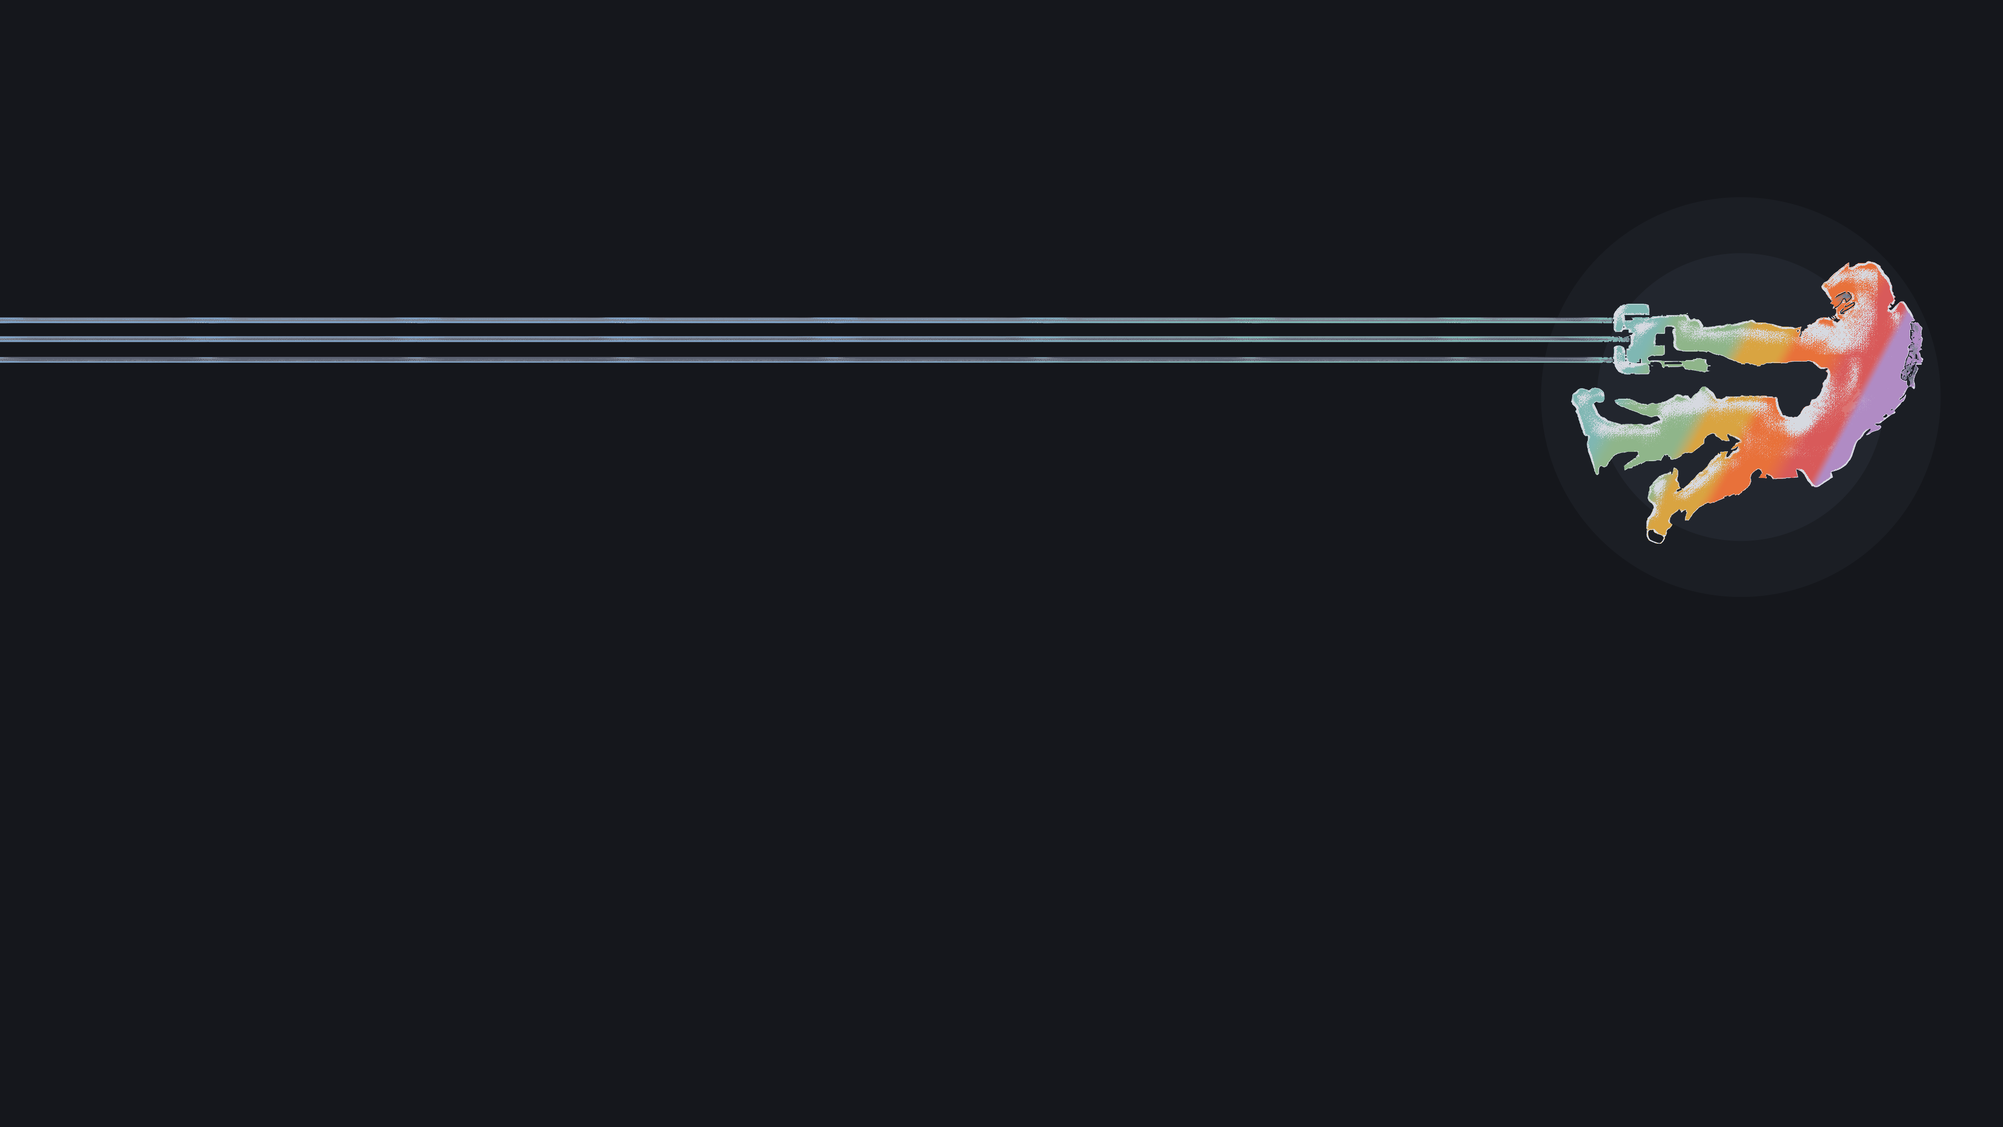
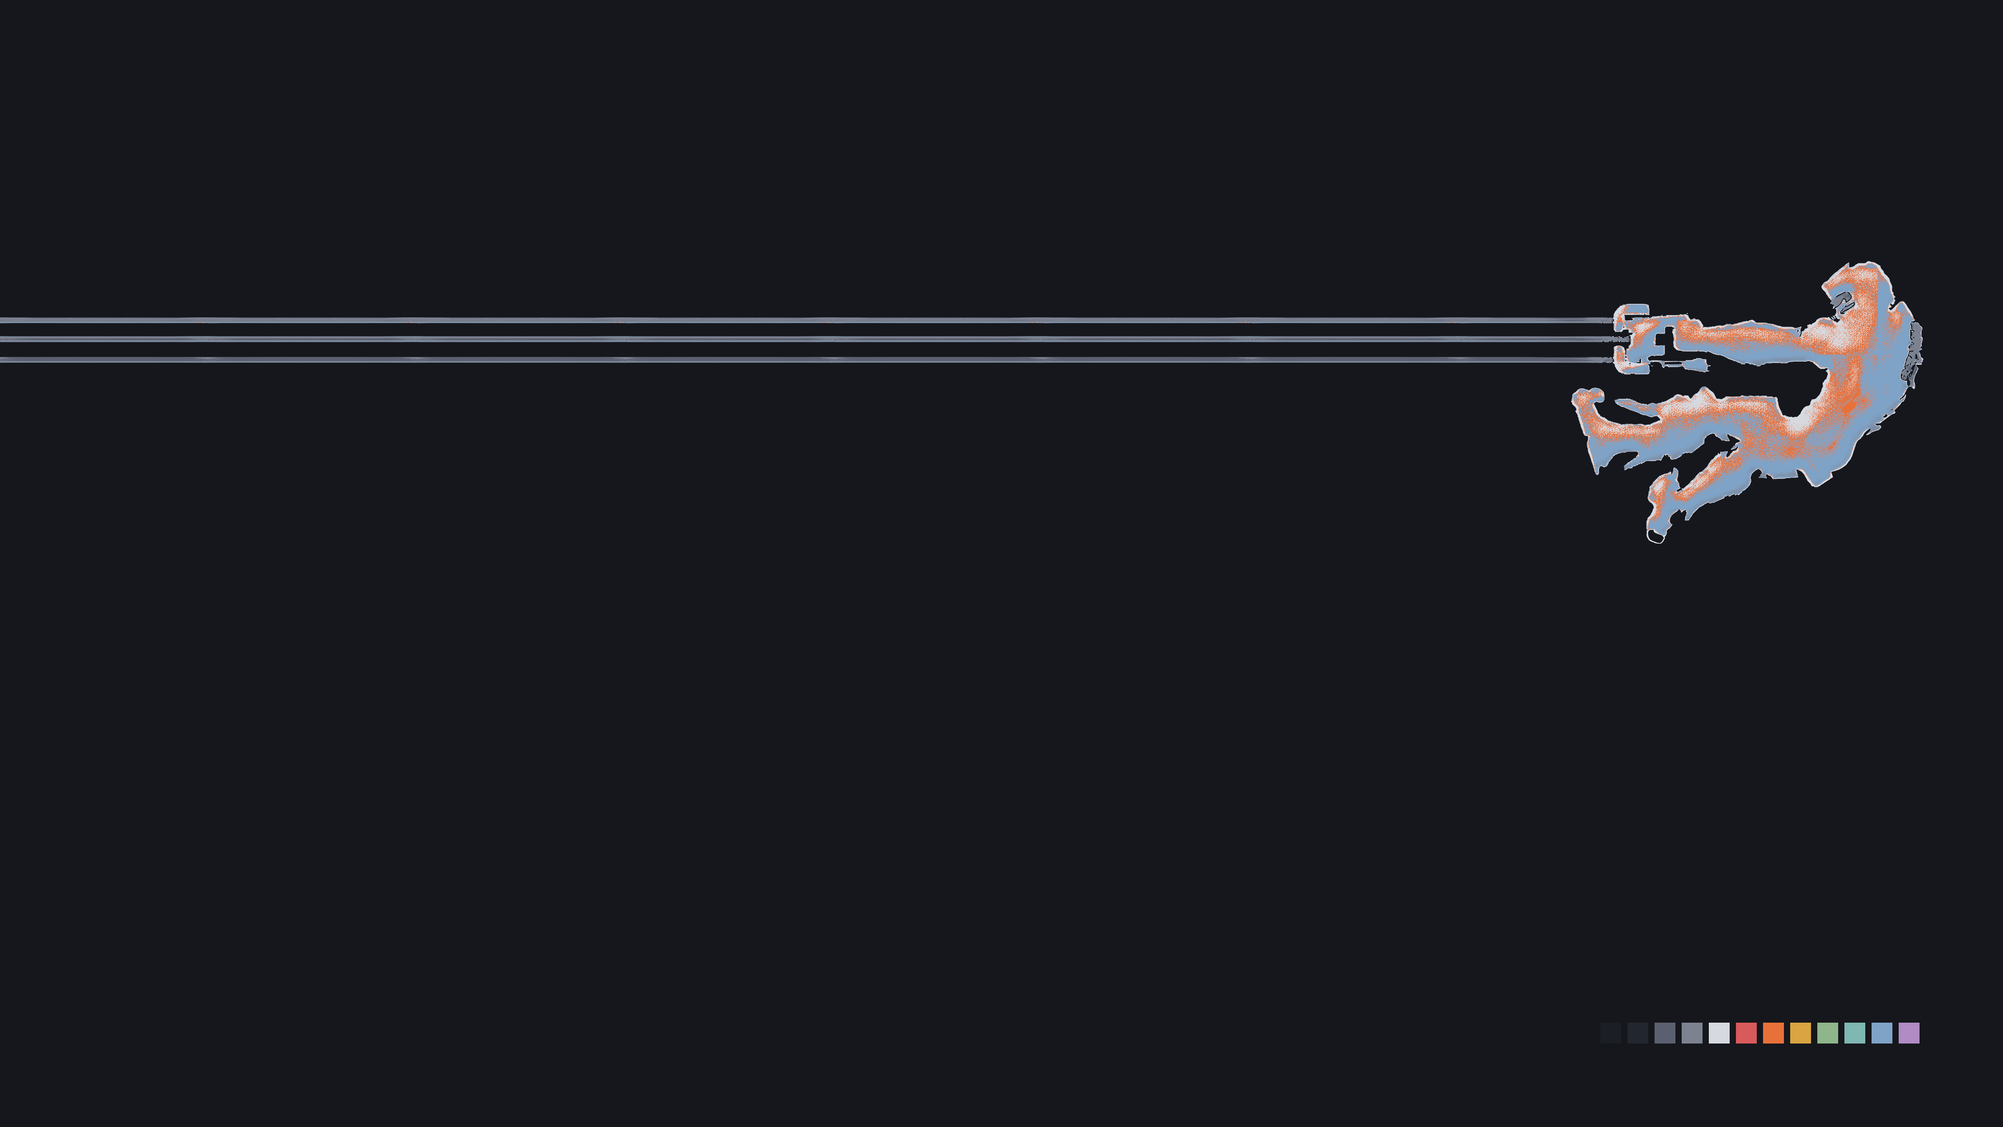
backgrounds: blue-black recolour and five Catppuccin Mocha picks
The swept seven-colour recolour read as a rainbow. The five subjects now
keep the palette's own shape: blue-black paper, comment and muted
shadows, a slate blue body, ember only on the brightest strokes, text on
the strongest lines. A small swatch strip in the bottom right carries
whatever the picture does not use, so every wallpaper still holds all
13 palette colours as exact hex.

Five more wallpapers are the pick of atraxsrc/catppuccin-mocha-walls
(minimalist-black-hole, black-hole, yohoho, puffy-stars, lit-up-sky),
chosen for being mostly night with a small glow. scripts/mocha.py moves
each Mocha colour onto its role here in OKLab, every warm one onto the
ember family so a sunset stays one glow; the day half turns the
neutrals over so the night sky becomes the stone window.

Claude-Session: https://claude.ai/code/session_01PiNkwWbMkiGMkdhnqFjUyB

Changed region(s): [[0.0, 0.2171, 0.9688, 0.4653], [0.8125, 0.8995, 0.9688, 0.9306]]

diff --git a/scripts/wallpaper.py b/scripts/wallpaper.py
@@ -1,30 +1,33 @@
 #!/usr/bin/env python3
-"""Recolour one wallpaper with every colour of the repo palette.
+"""Recolour one wallpaper with the repo palette, every colour included.
 
-    python3 scripts/wallpaper.py night GREY.png OUT.png
-    python3 scripts/wallpaper.py day   GREY.png OUT.png
-    python3 scripts/wallpaper.py night --v1 backgrounds/ember-eagle.png OUT.png
+    python3 scripts/wallpaper.py night [--accent NAME] GREY.png OUT.png
+    python3 scripts/wallpaper.py day   [--accent NAME] GREY.png OUT.png
+    python3 scripts/wallpaper.py night --v1 --accent Amber ember-eagle-v1.png OUT.png
 
 GREY is the cover-cropped grey render that scripts/wallpaper.sh prepares (light
 subject on dark for night, dark subject on light for day). --v1 instead reads
 a wallpaper made by the first, two-tone lookup and recovers its grey levels, so
 the shipped wallpapers can be redone without the cool-wallpapers sources.
 
-The palette is read from backgrounds/*.gpl. Each pixel gets an ink level, 0 on
-the paper and 1 on the strongest line, and runs along one ramp of roles:
+The palette is read from backgrounds/*.gpl. The subject stays calm, as the
+palette asks: neutrals for the big shapes, one supporting colour (--accent,
+slate blue unless named) for the body, and ember small and loud near the top.
+Each pixel gets an ink level, 0 on the paper and 1 on the strongest line, and
+its rank inside the subject runs it along one ramp:
 
-    ink  0.00-0.20  window, flat, so the paper lands exactly on the window
-         0.20-0.46  comment, then muted (shadows and fine lines)
-         0.46-0.80  one of the seven colours (ember, moss, amber, brick,
-                    slate blue, heather, verdigris), held flat
-         0.80-1.00  text (fog by night, ink by day) on the strongest lines
+    window   the paper, flat, so it lands exactly on the window colour
+    comment  faint shading
+    muted    shadows and fine lines
+    accent   the body of the subject
+    ember    the brightest (night) or boldest (day) strokes
+    text     the strongest lines
 
-Which of the seven a pixel takes depends on where it sits: the subject is
-swept on a diagonal and split into seven bands of equal ink, so each colour
-covers about a seventh of the subject. Behind the subject sits a stepped disc
-in pane and container, kept clear of the corners so they stay on the window.
+The colours the subject does not use sit in a small swatch strip in the
+bottom right, one square per palette colour, on a plate of window colour.
 Blends between roles are mixed in OKLab; every role holds a flat band, so
-each palette colour is present as its exact hex.
+each palette colour is present as its exact hex, and the corners stay on
+the window.
 """
 import glob
 import os
@@ -34,8 +37,7 @@ import numpy as np
 from PIL import Image
 
 W, H = 3840, 2160
-HUES = ["Slate blue", "Verdigris", "Moss", "Amber", "Ember", "Brick", "Heather"]
-SWEEP = np.deg2rad(28)  # top left to bottom right
+ACCENTS = ["Brick", "Ember", "Amber", "Moss", "Verdigris", "Slate blue", "Heather"]
 
 # The first lookup of scripts/wallpaper.sh, as (rows, from, to); used by --v1.
 V1 = {
@@ -123,19 +125,6 @@ def ink_from_v1(mode, path):
     return g if mode == "night" else 1 - g
 
 
-def densest(mask, step=16):
-    """Centroid of the mask weighted by the square of its local density (a box
-    a sixth of the height wide), so solid shapes count and thin lines barely do."""
-    h, w = H // step, W // step
-    small = mask[:h * step, :w * step].reshape(h, step, w, step).mean((1, 3))
-    k = H // 6 // step
-    c = np.pad(small, ((k // 2 + 1, k - k // 2), (k // 2 + 1, k - k // 2))).cumsum(0).cumsum(1)
-    box = (c[k:, k:] - c[:-k, k:] - c[k:, :-k] + c[:-k, :-k])[:h, :w] / k ** 2
-    wt = small * box ** 2
-    yy, xx = np.mgrid[0:h, 0:w]
-    return ((xx * wt).sum() / wt.sum() + 0.5) * step, ((yy * wt).sum() / wt.sum() + 0.5) * step
-
-
 def rank(ink, subject):
     """Spread the subject's ink evenly over 0.2-1 by its own distribution (ties
     take their middle rank), so a faint render and a bold one both run the whole
@@ -146,66 +135,50 @@ def rank(ink, subject):
     return np.where(subject, 0.2 + 0.8 * mid[bins], ink).astype(np.float32)
 
 
-def render(mode, ink, pal):
-    lab = {k: to_lab(v) for k, v in pal.items()}
-    window = lab["Window"]
-    # outer disc is whichever of pane / container sits nearer the window
-    near, far = sorted(["Pane", "Container"], key=lambda k: abs(lab[k][0] - window[0]))
+def strip(img, pal, size=40, gap=12, pad=28, margin=160):
+    """One square per palette colour but the window, bottom right: neutrals from
+    the window out, then the colours round the wheel. Draws on img in place."""
+    window = pal["Window"]
+    neutrals = sorted(["Pane", "Container", "Comment", "Muted", "Text"],
+                      key=lambda k: np.abs(pal[k] - window).sum())
+    names = neutrals + ACCENTS
+    w = len(names) * size + (len(names) - 1) * gap
+    x0, y0 = W - margin - w, H - margin - size
+    img[y0 - pad:y0 + size + pad, x0 - pad:x0 + w + pad] = window
+    for n, k in enumerate(names):
+        x = x0 + n * (size + gap)
+        img[y0:y0 + size, x:x + size] = pal[k]
 
-    ys, xs = np.mgrid[0:H, 0:W].astype(np.float32)
+
+def render(mode, ink, pal, accent="Slate blue"):
+    lab = {k: to_lab(v) for k, v in pal.items()}
     subject = ink > 0.2
-    ink = rank(ink, subject)
     if not subject.any():
         sys.exit("nothing above the paper: is the mode right?")
+    ink = rank(ink, subject)
 
-    # stepped disc behind the subject: centred where the subject is densest
-    # (so thin lines trailing off do not pull it away), wide enough for most
-    # of it, its rim kept 120 px inside every edge where the room allows
-    cx, cy = densest(subject)
-    dist = np.hypot(xs - cx, ys - cy)
-    r = 1.15 * np.percentile(dist[subject], 70)
-    r = min(r, cx - 120, W - 120 - cx, cy - 120, H - 120 - cy, 0.46 * H)
-    r = max(r, 0.16 * H)
-    outer = np.clip(r - dist + 0.5, 0, 1)[..., None]
-    inner = np.clip(0.72 * r - dist + 0.5, 0, 1)[..., None]
-    base = window + (lab[near] - window) * outer
-    base = base + (lab[far] - base) * inner
-
-    # colour sweep: equal-ink bands of the seven colours along a diagonal
-    proj = xs * np.cos(SWEEP) + ys * np.sin(SWEEP)
-    hot = (ink > 0.48) & (ink < 0.84)
-    pts = proj[hot] if hot.sum() > 1000 else proj[subject]
-    q = np.quantile(pts, np.linspace(0, 1, 513))
-    q = np.maximum.accumulate(q + np.arange(513) * 1e-4)
-    t = np.interp(proj, q, np.linspace(0, 1, 513))
-    s = np.clip(t * len(HUES) - 0.5, 0, len(HUES) - 1)
-    i = np.minimum(s.astype(np.int32), len(HUES) - 2)
-    f = smooth((s - i - 0.3) / 0.4)[..., None]
-    hues = np.array([lab[k] for k in HUES])
-    hue = hues[i] + (hues[i + 1] - hues[i]) * f
-
-    keys = [(0.20, base), (0.26, lab["Comment"]), (0.31, lab["Comment"]),
-            (0.37, lab["Muted"]), (0.42, lab["Muted"]), (0.48, hue),
-            (0.84, hue), (0.92, lab["Text"])]
-    out = np.broadcast_to(base, (H, W, 3)).copy()
+    keys = [(0.20, "Window"), (0.28, "Comment"), (0.34, "Comment"),
+            (0.42, "Muted"), (0.50, "Muted"), (0.60, accent),
+            (0.76, accent), (0.82, "Ember"), (0.88, "Ember"), (0.95, "Text")]
+    out = np.broadcast_to(lab["Window"], (H, W, 3)).copy()
     for (a, ca), (b, cb) in zip(keys, keys[1:]):
         m = ink > a
         w = smooth((ink[m] - a) / (b - a))[:, None]
-        ca = ca[m] if np.ndim(ca) == 3 else ca
-        cb = cb[m] if np.ndim(cb) == 3 else cb
-        out[m] = ca + (cb - ca) * w
-    return from_lab(out.reshape(-1, 3)).reshape(H, W, 3)
+        out[m] = lab[ca] + (lab[cb] - lab[ca]) * w
+    img = from_lab(out.reshape(-1, 3)).reshape(H, W, 3)
+    strip(img, pal)
+    return img
 
 
-def check(img, pal, path):
+def check(img, pal, path, corners=True):
     flat = img.reshape(-1, 3)
     missing = []
     for k, v in pal.items():
         n = int(np.all(flat == v.astype(np.uint8), axis=1).sum())
         if n < 500:
             missing.append(f"{k} ({n} px)")
-    corners = [img[0, 0], img[0, -1], img[-1, 0], img[-1, -1]]
-    if any((c != pal["Window"]).any() for c in corners):
+    edge = [img[0, 0], img[0, -1], img[-1, 0], img[-1, -1]]
+    if corners and any((c != pal["Window"]).any() for c in edge):
         missing.append("window corners")
     if missing:
         sys.exit(f"{path}: short of " + ", ".join(missing))
@@ -214,13 +187,18 @@ def check(img, pal, path):
 def main(argv):
     v1 = "--v1" in argv
     argv = [a for a in argv if a != "--v1"]
-    if len(argv) != 3 or argv[0] not in ("night", "day"):
-        sys.exit(__doc__.split("\n\n")[1])
+    accent = "Slate blue"
+    if "--accent" in argv:
+        i = argv.index("--accent")
+        accent = argv[i + 1]
+        del argv[i:i + 2]
+    if len(argv) != 3 or argv[0] not in ("night", "day") or accent not in ACCENTS:
+        sys.exit(__doc__.split("\n\n")[1] + "\n\naccent: " + ", ".join(ACCENTS))
     mode, src, out = argv
     root = os.path.dirname(os.path.dirname(os.path.abspath(__file__)))
     pal = palette(root)
     ink = (ink_from_v1 if v1 else ink_from_grey)(mode, src)
-    img = render(mode, ink, pal)
+    img = render(mode, ink, pal, accent)
     check(img, pal, out)
     Image.fromarray(img).save(out, optimize=True)
     print(out)

diff --git a/scripts/mocha.py b/scripts/mocha.py
@@ -1,0 +1,114 @@
+#!/usr/bin/env python3
+"""Recolour a Catppuccin Mocha wallpaper into this repo's palette.
+
+    python3 scripts/mocha.py night SOURCE OUT.png
+    python3 scripts/mocha.py day   SOURCE OUT.png
+
+SOURCE is a wallpaper already drawn in Catppuccin Mocha, such as one from
+github.com/atraxsrc/catppuccin-mocha-walls. Each of the 26 Mocha colours has a
+role here, and every pixel moves by the inverse-distance blend (in OKLab) of
+the moves its nearest Mocha colours make, so texture and soft edges survive
+and a pixel sitting on a Mocha colour lands exactly on its role:
+
+    mantle, crust      window (the paper)
+    base, surface0     pane, container
+    surface1-text      comment, muted, text, with the steps between
+    maroon, peach      ember          flamingo, rosewater  ember toward text
+    red                brick          yellow       amber
+    green              moss           teal, sky    verdigris
+    blue, sapphire     slate blue     mauve, pink, lavender  heather
+
+The warm Mocha colours all go to the ember family, so a pink-to-yellow sunset
+stays one glow instead of breaking into bands. The pictures worth recolouring
+are the ones that are mostly night with a small glow: the blue-black does the
+work and ember stays small and loud, as the palette asks.
+
+night keeps Mocha's light order. day turns the neutrals over, so the dark
+paper becomes the stone window and the lightest strokes become ink, and the
+accents take Ember Day's darker values.
+
+The result is cover-cropped to 3840x2160 and gets the palette strip of
+scripts/wallpaper.py, so every palette colour is present as its exact hex.
+"""
+import os
+import sys
+
+import numpy as np
+from PIL import Image
+
+sys.path.insert(0, os.path.dirname(os.path.abspath(__file__)))
+from wallpaper import H, W, check, from_lab, palette, strip, to_lab  # noqa: E402
+
+MOCHA = {
+    "rosewater": "f5e0dc", "flamingo": "f2cdcd", "pink": "f5c2e7", "mauve": "cba6f7",
+    "red": "f38ba8", "maroon": "eba0ac", "peach": "fab387", "yellow": "f9e2af",
+    "green": "a6e3a1", "teal": "94e2d5", "sky": "89dceb", "sapphire": "74c7ec",
+    "blue": "89b4fa", "lavender": "b4befe", "text": "cdd6f4", "subtext1": "bac2de",
+    "subtext0": "a6adc8", "overlay2": "9399b2", "overlay1": "7f849c", "overlay0": "6c7086",
+    "surface2": "585b70", "surface1": "45475a", "surface0": "313244", "base": "1e1e2e",
+    "mantle": "181825", "crust": "11111b",
+}
+
+
+def roles(lab, mode):
+    """Target OKLab colour for each Mocha name: a palette role, or a step
+    between two roles written (a, b, t)."""
+    mix = lambda a, b, t: lab[a] + (lab[b] - lab[a]) * t  # noqa: E731
+    beyond = mix("Window", "Pane", -1.0)  # one step past the window, for crust
+    near, far = sorted(["Pane", "Container"], key=lambda k: abs(lab[k][0] - lab["Window"][0]))
+    return {
+        "crust": beyond, "mantle": lab["Window"], "base": lab[near], "surface0": lab[far],
+        "surface1": mix(far, "Comment", 0.5), "surface2": lab["Comment"],
+        "overlay0": mix("Comment", "Muted", 0.5), "overlay1": lab["Muted"],
+        "overlay2": mix("Muted", "Text", 0.25), "subtext0": mix("Muted", "Text", 0.5),
+        "subtext1": mix("Muted", "Text", 0.75), "text": lab["Text"],
+        "maroon": lab["Ember"], "peach": lab["Ember"], "red": lab["Brick"],
+        "yellow": lab["Amber"], "green": lab["Moss"], "teal": lab["Verdigris"],
+        "sky": lab["Verdigris"], "blue": lab["Slate blue"], "sapphire": lab["Slate blue"],
+        "mauve": lab["Heather"], "pink": lab["Heather"], "lavender": mix("Heather", "Text", 0.3),
+        "flamingo": mix("Ember", "Text", 0.35), "rosewater": mix("Ember", "Text", 0.65),
+    }
+
+
+def recolour(img, pal, mode, power=4.0):
+    lab = {k: to_lab(v) for k, v in pal.items()}
+    tgt = roles(lab, mode)
+    src = np.array([to_lab(np.array([int(h[i:i + 2], 16) for i in (0, 2, 4)], float)) for h in MOCHA.values()])
+    move = np.array([tgt[k] for k in MOCHA]) - src
+
+    flat = img.reshape(-1, 3)
+    keys = (flat[:, 0].astype(np.int32) << 16) | (flat[:, 1].astype(np.int32) << 8) | flat[:, 2]
+    uniq, inv = np.unique(keys, return_inverse=True)
+    ucol = np.stack([uniq >> 16, (uniq >> 8) & 255, uniq & 255], 1).astype(np.float64)
+    out = np.empty((len(ucol), 3))
+    for i in range(0, len(ucol), 200000):
+        c = to_lab(ucol[i:i + 200000])
+        d = np.sqrt(((c[:, None, :] - src[None]) ** 2).sum(-1))
+        w = 1 / (d ** power + 1e-12)
+        out[i:i + 200000] = c + (w[..., None] * move[None]).sum(1) / w.sum(1, keepdims=True)
+    return from_lab(out)[inv].reshape(img.shape)
+
+
+def cover(path):
+    im = Image.open(path).convert("RGB")
+    s = max(W / im.width, H / im.height)
+    im = im.resize((round(im.width * s), round(im.height * s)), Image.LANCZOS)
+    x, y = (im.width - W) // 2, (im.height - H) // 2
+    return np.asarray(im.crop((x, y, x + W, y + H)))
+
+
+def main(argv):
+    if len(argv) != 3 or argv[0] not in ("night", "day"):
+        sys.exit(__doc__.split("\n\n")[1])
+    mode, src, out = argv
+    root = os.path.dirname(os.path.dirname(os.path.abspath(__file__)))
+    pal = palette(root)
+    img = recolour(cover(src), pal, mode)
+    strip(img, pal)
+    check(img, pal, out, corners=False)  # a painting keeps its own edges
+    Image.fromarray(img).save(out, optimize=True)
+    print(out)
+
+
+if __name__ == "__main__":
+    main(sys.argv[1:])

diff --git a/README.md b/README.md
@@ -93,7 +93,8 @@ Window hint `#E8713A`. Ratios per role are in `docs/showcase.md`, or run
 │   ├── update_system.sh         # nala + flatpak, fog ANSI for a dark terminal
 │   ├── contrast.py              # palette contrast table, feeds the README
 │   ├── wallpaper.sh             # renders a wallpaper from any source image
-│   └── wallpaper.py             # maps its grey onto all 13 palette colours
+│   ├── wallpaper.py             # maps its grey onto the palette
+│   └── mocha.py                 # recolours a Catppuccin Mocha wallpaper to the palette
 ├── zsh
 │   ├── ember.zsh                # LS_COLORS, highlighting colours, aliases, starship
 │   └── install.sh
@@ -101,7 +102,7 @@ Window hint `#E8713A`. Ratios per role are in `docs/showcase.md`, or run
 │   ├── cursors/                 # cursor preview
 │   ├── screenshot.png           # README screenshot
 │   └── wallpaper.png            # the astronaut on the bare desktop
-├── backgrounds/                 # five wallpapers, ember-<subject>.png, and ember.gpl
+├── backgrounds/                 # ten wallpapers, ember-<subject>.png, and ember.gpl
 ├── docs
 │   └── showcase.md              # the rice describing itself, for the Postilla pane of the screenshot
 ├── LICENSE
@@ -324,27 +325,30 @@ Restart open apps afterwards (Files caches icons per window).
 Add `--system` to install to `/usr/share/icons` instead, for every user and the
 login screen (asks for sudo); `--user` is the default.
 
-Five subjects rendered by `scripts/wallpaper.sh` from
-[cool-wallpapers](https://github.com/atraxsrc/cool-wallpapers), named `ember-<subject>.png`
-in [`backgrounds/`](backgrounds/): astronaut (the one in the screenshot), samurai,
-geisha, city and the eagle; `ember.gpl` sits beside them for GIMP work. Any other
-source renders with one command:
+Ten wallpapers in [`backgrounds/`](backgrounds/), named `ember-<subject>.png`, with
+`ember.gpl` beside them for GIMP work. Every one carries all 13 palette colours as
+their exact hex: whatever the picture does not use sits in a small swatch strip in
+the bottom right.
+
+Five subjects come from [cool-wallpapers](https://github.com/atraxsrc/cool-wallpapers),
+rendered by `scripts/wallpaper.sh`: astronaut (the one in the screenshot), samurai,
+geisha, city and the eagle. The grey of the source runs from the window through
+comment and muted shadows to a slate blue body, with ember only on the brightest
+strokes and text on the strongest lines. Any other source renders with one command:
 
 ```bash
 ./scripts/wallpaper.sh night path/to/source.png backgrounds/ember-<subject>.png
 ```
 
-Every wallpaper carries all 13 palette colours, each as its exact hex: the paper is
-the window, a stepped disc of pane and container sits behind the subject, comment
-and muted draw the shadows, the seven colours (slate blue, verdigris, moss, amber,
-ember, brick, heather) sweep across the subject on a diagonal in bands of equal
-area, and text takes the strongest lines. `scripts/wallpaper.py` reads the colours
-from `backgrounds/ember.gpl`, refuses to write a wallpaper short of any of them or
-whose corners are off the window, and with `--v1` re-renders a wallpaper made by the
-first two-tone lookup without its source:
+Five more are the pick of [catppuccin-mocha-walls](https://github.com/atraxsrc/catppuccin-mocha-walls),
+recoloured by `scripts/mocha.py`: minimalist-black-hole, black-hole, yohoho,
+puffy-stars and lit-up-sky. Each Mocha colour moves onto its role here (mantle to the
+window, the surfaces and overlays to the neutrals, every warm colour to the ember
+family, the blues to slate blue), so the picture keeps its own light and soft edges.
+The day half turns the neutrals over, so the night sky becomes the stone window:
 
 ```bash
-python3 scripts/wallpaper.py night --v1 backgrounds/ember-<subject>.png backgrounds/ember-<subject>.png
+python3 scripts/mocha.py night path/to/mocha-wallpaper.png backgrounds/ember-<subject>.png
 ```
 
 Settings → Wallpaper → Add image → a file from `backgrounds/`.
@@ -410,6 +414,8 @@ mkdir -p ~/.config/btop/themes && cp btop/Ember.theme ~/.config/btop/themes/
 ## Credits
 
 - Palette: Ember, designed for this pair (see `docs/superpowers/specs/2026-10-14-ember-design.md`).
+- Mocha wallpapers: [catppuccin-mocha-walls](https://github.com/atraxsrc/catppuccin-mocha-walls),
+  a collection whose pictures belong to their original artists.
 - Subjects: [cool-wallpapers](https://github.com/atraxsrc/cool-wallpapers); the eagle from
   [omarchy-thegreek-theme](https://github.com/HANCORE-linux/omarchy-thegreek-theme) (MIT).
 - Templates: [cosmic-tokyonight-theme](https://github.com/atraxsrc/cosmic-tokyonight-theme) and
